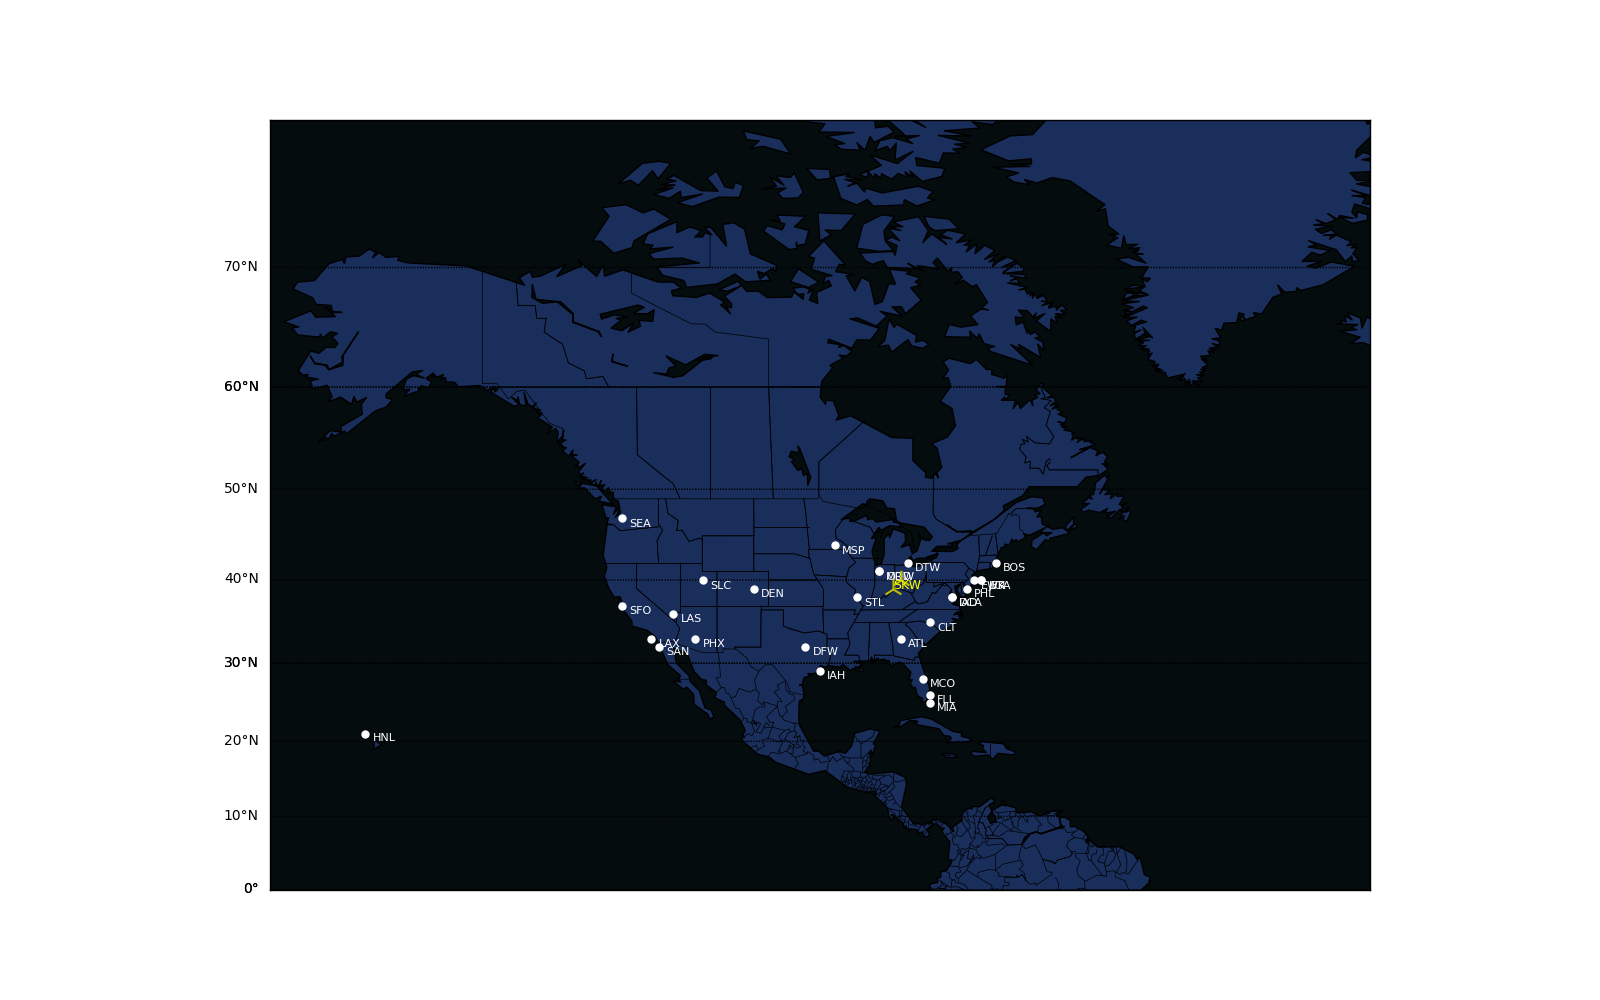
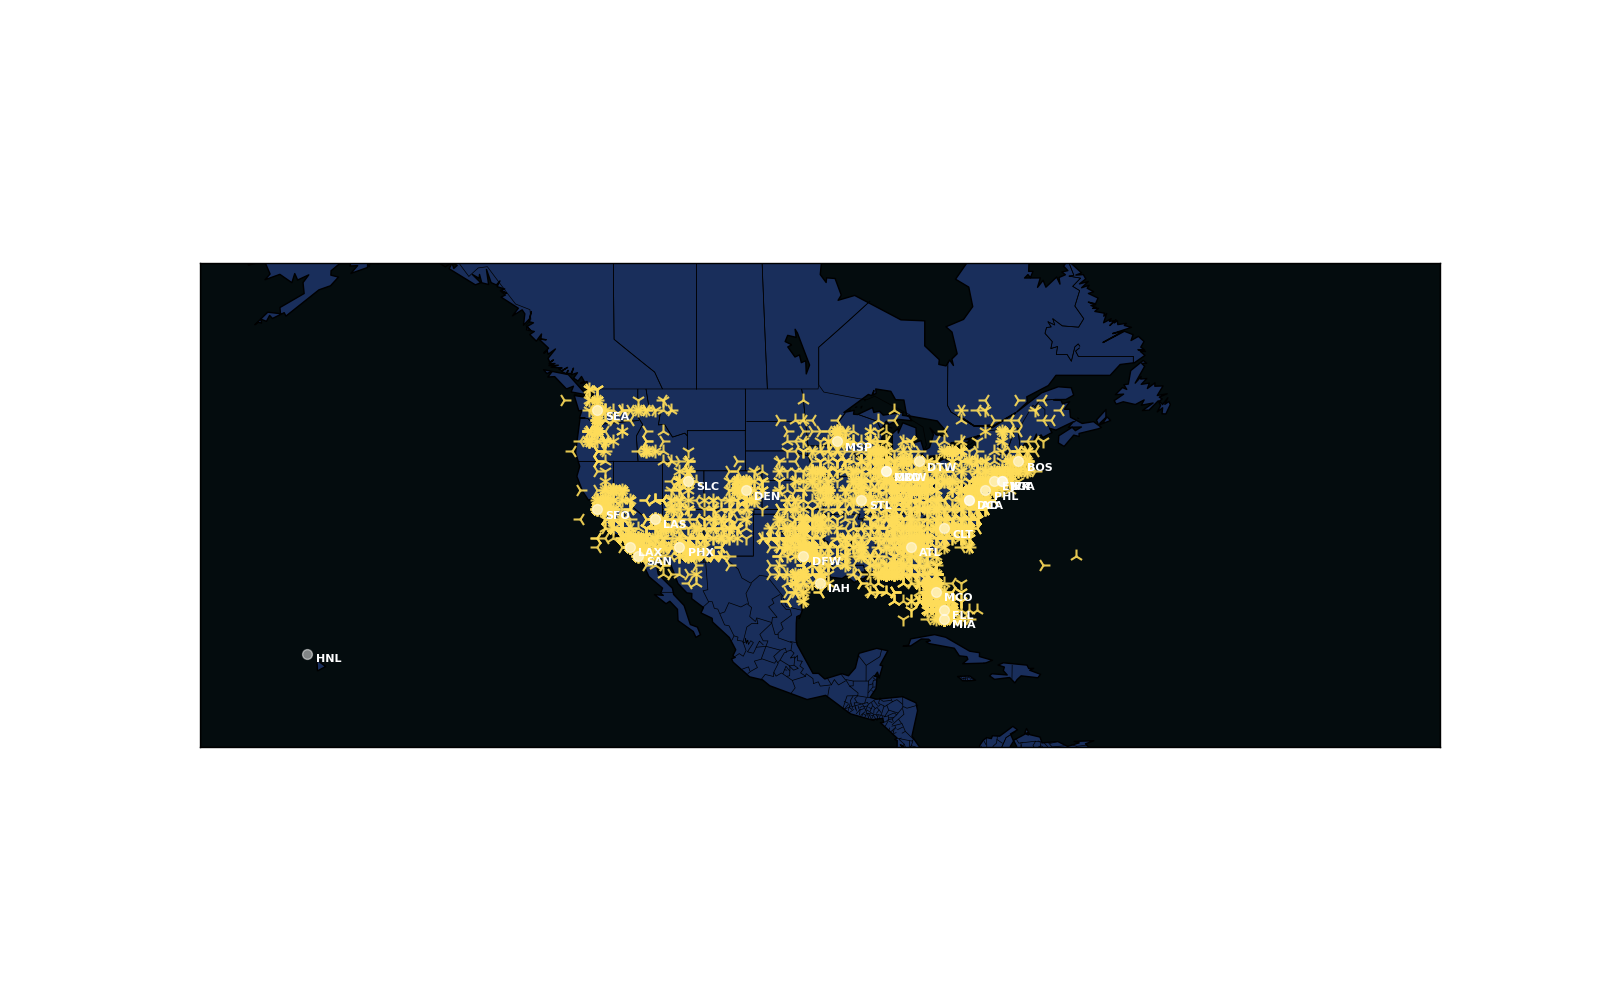
Add files via upload

diff --git a/visualize.py b/visualize.py
@@ -6,6 +6,7 @@
 from mpl_toolkits.basemap import Basemap
 import matplotlib.pyplot as plt
 import numpy as np
+import time
 
 # => IMPORTS
 import functions as func
@@ -13,13 +14,13 @@ import request as req
 import extract
 
 
-def create_basemap(scatters: list, airports: dict):
+def create_basemap(airports: dict):
     figure = plt.figure(figsize=(16, 10))
 
     MAP = Basemap(
         projection='mill',
-        llcrnrlat=0,
-        urcrnrlat=80,
+        llcrnrlat=10,
+        urcrnrlat=60,
         llcrnrlon=-170,
         urcrnrlon=-20,
         resolution='c'
@@ -27,29 +28,29 @@ def create_basemap(scatters: list, airports: dict):
 
     MAP.drawcoastlines()
 
-    MAP.drawparallels(np.arange(-90, 90, 10), labels=[True, False, False, False])
-    MAP.drawparallels(np.arange(-180, 180, 30), labels=[True, False, False, False])
+    # MAP.drawparallels(np.arange(-90, 90, 10), labels=[True, False, False, False])
+    # MAP.drawparallels(np.arange(-180, 180, 30), labels=[True, False, False, False])
 
     for iata, lat, lon in zip(airports['iata_code'][1:], airports['latitude_deg'][1:], airports['longitude_deg'][1:]):
 
         MAP.scatter(
             int(float(lon)), int(float(lat)),
-            latlon=True, s=15, c="w", marker=",", zorder=3,
+            latlon=True, s=50, c="w", marker="o", zorder=8, alpha=.5
         )
 
-        # => SHOW opicao CODE OF EVERY PLANE THAT HAS THIS DATA
+        # => SHOW AIRPORT NAME
         x, y = MAP(int(float(lon))+1, int(float(lat))-1)
-        plt.text(x, y, iata, fontsize=8, zorder=6, color=func.THEME['font'])
+        plt.text(x, y, iata, fontsize=8, zorder=6, color=func.THEME['font'], weight='bold')
 
-    for scatter, label in zip(scatters, labels):
-        print(scatter)
+    for scatter in AIRCRAFTS:
+        lon, lat, vel, heading = scatter
 
         MAP.scatter(
-            int(float(scatter['lon'])), int(float(scatter['lat'])),
-            latlon=True, s=100, marker="2", c=func.THEME['marker-color'], zorder=8,
+            int(lon), int(lat),
+            latlon=True, s=100, marker=func.angle(heading), c=func.THEME['marker-color'], zorder=4, alpha=.9
         )
 
-        # => SHOW opicao CODE OF EVERY PLANE THAT HAS THIS DATA
+        # => SHOW icao CODE OF EVERY PLANE THAT HAS THIS DATA
         # x, y = MAP(int(float(scatter['lon'])), int(float(scatter['lat'])))
         # plt.text(x+10, y, label, fontsize=9, zorder=9, color='yellow')
 
@@ -64,18 +65,30 @@ def create_basemap(scatters: list, airports: dict):
     if func.THEME['states']:
         MAP.drawstates()
 
-    # plt.savefig(func.SAVE_PATH)
+    plt.savefig(func.SAVE_PATH)
     plt.show(color='#fbc531')
 
 
 # => GET JSON DATA
-response = req.get_flights()
-data = func.load_from_json(func.JSON_FILE)
+# response = req.get_flights()
+# data = func.load_from_json(func.JSON_FILE)
 
-new = extract.get_values(data, ["lat", "lon", "from", "to", "opicao"])
-labels = extract.get_labels(new, "opicao")
-create_basemap(new, func.US_AIRPORTS)
+while True:
+    AIRCRAFTS = []
 
-# -> TRUNCATE THE JSON FILE FOR NEW DATA
-if not req.DEBUG:
-    func.write_to_json({ "ac": [] }, func.JSON_FILE)
+    for pack in extract.get_from_opensky(req.get_air_crafts_pos()):
+        if pack is False:
+            time.sleep(10)
+            continue
+
+        AIRCRAFTS.append(pack)
+
+    # new = extract.get_values(data, ["lat", "lon", "from", "to", "icao"])
+    # labels = extract.get_labels(new, "icao")
+    create_basemap(func.US_AIRPORTS)
+
+    # -> TRUNCATE THE JSON FILE FOR NEW DATA
+    if not req.DEBUG:
+        func.write_to_json({ "ac": [] }, func.JSON_FILE)
+
+    time.sleep(5)

diff --git a/functions.py b/functions.py
@@ -7,6 +7,7 @@ import json
 import pandas as pd
 import configparser
 from datetime import datetime
+import random
 
 
 CONFIG_FILE = 'config/config.ini'
@@ -27,7 +28,7 @@ HOUR = now.hour
 THEME = {
     'water': '#' + config['THEME']['day_water'] if HOUR < 19 else '#' + config['THEME']['night_water'],
     'ground': '#' + config['THEME']['day_ground'] if HOUR < 19 else '#' + config['THEME']['night_ground'],
-    'font': config['THEME']['day_color'] if HOUR < 19 else config['THEME']['night_color'],
+    'font': '#' + config['THEME']['day_color'] if HOUR < 19 else '#' + config['THEME']['night_color'],
     'states': bool(int(config['THEME']['day_states'])) if HOUR < 19 else bool(int(config['THEME']['night_states'])),
     'marker-color': '#' + config['THEME']['marker_color']
 }
@@ -63,6 +64,26 @@ DESTINATIONS = {    # 24 requests / per use
 # => ALL USA AIRPORTS
 US_AIRPORTS = pd.read_csv(AIRPORTS_CSV_FILE, usecols=[
     'longitude_deg', 'latitude_deg', 'iata_code', 'name'], nrows=AIRPORTS_LIMIT+1)
+
+
+directions = ['north', 'east', 'south', 'west']
+
+# => MARKERS
+MARKERS = {
+    key: str(i + 1) for i, key in enumerate(directions)
+}
+
+ANGLES = [
+    # [0, 360 // 4, 'north'],
+    # [360 // 4, (360 // 4) * 2, 'east'],
+    # [(360 // 4) * 2, (360 // 4) * 3, 'south'],
+    # [(360 // 4) * 3, 360, 'west']
+
+    [0, 90, 'north'],
+    [91, 180, 'east'],
+    [181, 270, 'south'],
+    [271, 360, 'west'],
+]
 
 
 def change_json(content: dict, filename: str) -> bool:
@@ -120,4 +141,15 @@ def increment_calls(config, filename: str):
         config.write(file)
 
     return config
+
+
+def angle(heading):
+    if heading is None or heading == '' or heading == ' ': return random.choice(MARKERS)
+
+    heading = int(heading)
+
+    if ANGLES[0][0] <= heading <= ANGLES[0][1]: return MARKERS[ANGLES[0][2]]  # NORTH
+    if ANGLES[1][0] <= heading <= ANGLES[1][1]: return MARKERS[ANGLES[1][2]]  # EAST
+    if ANGLES[2][0] <= heading <= ANGLES[2][1]: return MARKERS[ANGLES[2][2]]  # SOUTH
+    if ANGLES[3][0] <= heading <= ANGLES[3][1]: return MARKERS[ANGLES[3][2]]  # WEST
 

diff --git a/request.py b/request.py
@@ -2,6 +2,7 @@ import requests
 import configparser
 import json
 import functions as func
+from opensky_api import OpenSkyApi
 
 config = configparser.ConfigParser()
 config.read(func.CONFIG_FILE)
@@ -11,6 +12,11 @@ DEBUG = int(config['API']['debug'])
 DEBUG = True if int(DEBUG) == 1 else False
 COLUMNS = ['long', 'lat', 'position-source']
 
+USERNAME = config['API']['username']
+PASSWORD = config['API']['password']
+
+# => OPEN SKY API
+OS_API = OpenSkyApi(USERNAME, PASSWORD)
 
 # => API DATA
 # LAT = str(40)
@@ -64,3 +70,11 @@ def get_flights():
     # => NO DEBUG NO API CALLS
     else:
         raise Exception('Cannot do more api calls! ')
+
+
+def get_air_crafts_pos():
+    try:
+        return OS_API.get_states(bbox=(25.0001, 49.1000, -130.0000, -60.0000))
+
+    except requests.exceptions.ReadTimeout:
+        pass

diff --git a/extract.py b/extract.py
@@ -32,3 +32,14 @@ def get_labels(data: list, key: str) -> list:
 
     return labels
 
+
+def get_from_opensky(states):
+    try:
+        for state in states.states:
+
+            if state is not None:
+                yield [ state.longitude, state.latitude, state.velocity, state.heading ]
+
+        # return [[state.longitude, state.latitude, state.velocity] for state in states.states]
+    except AttributeError:
+        return False
